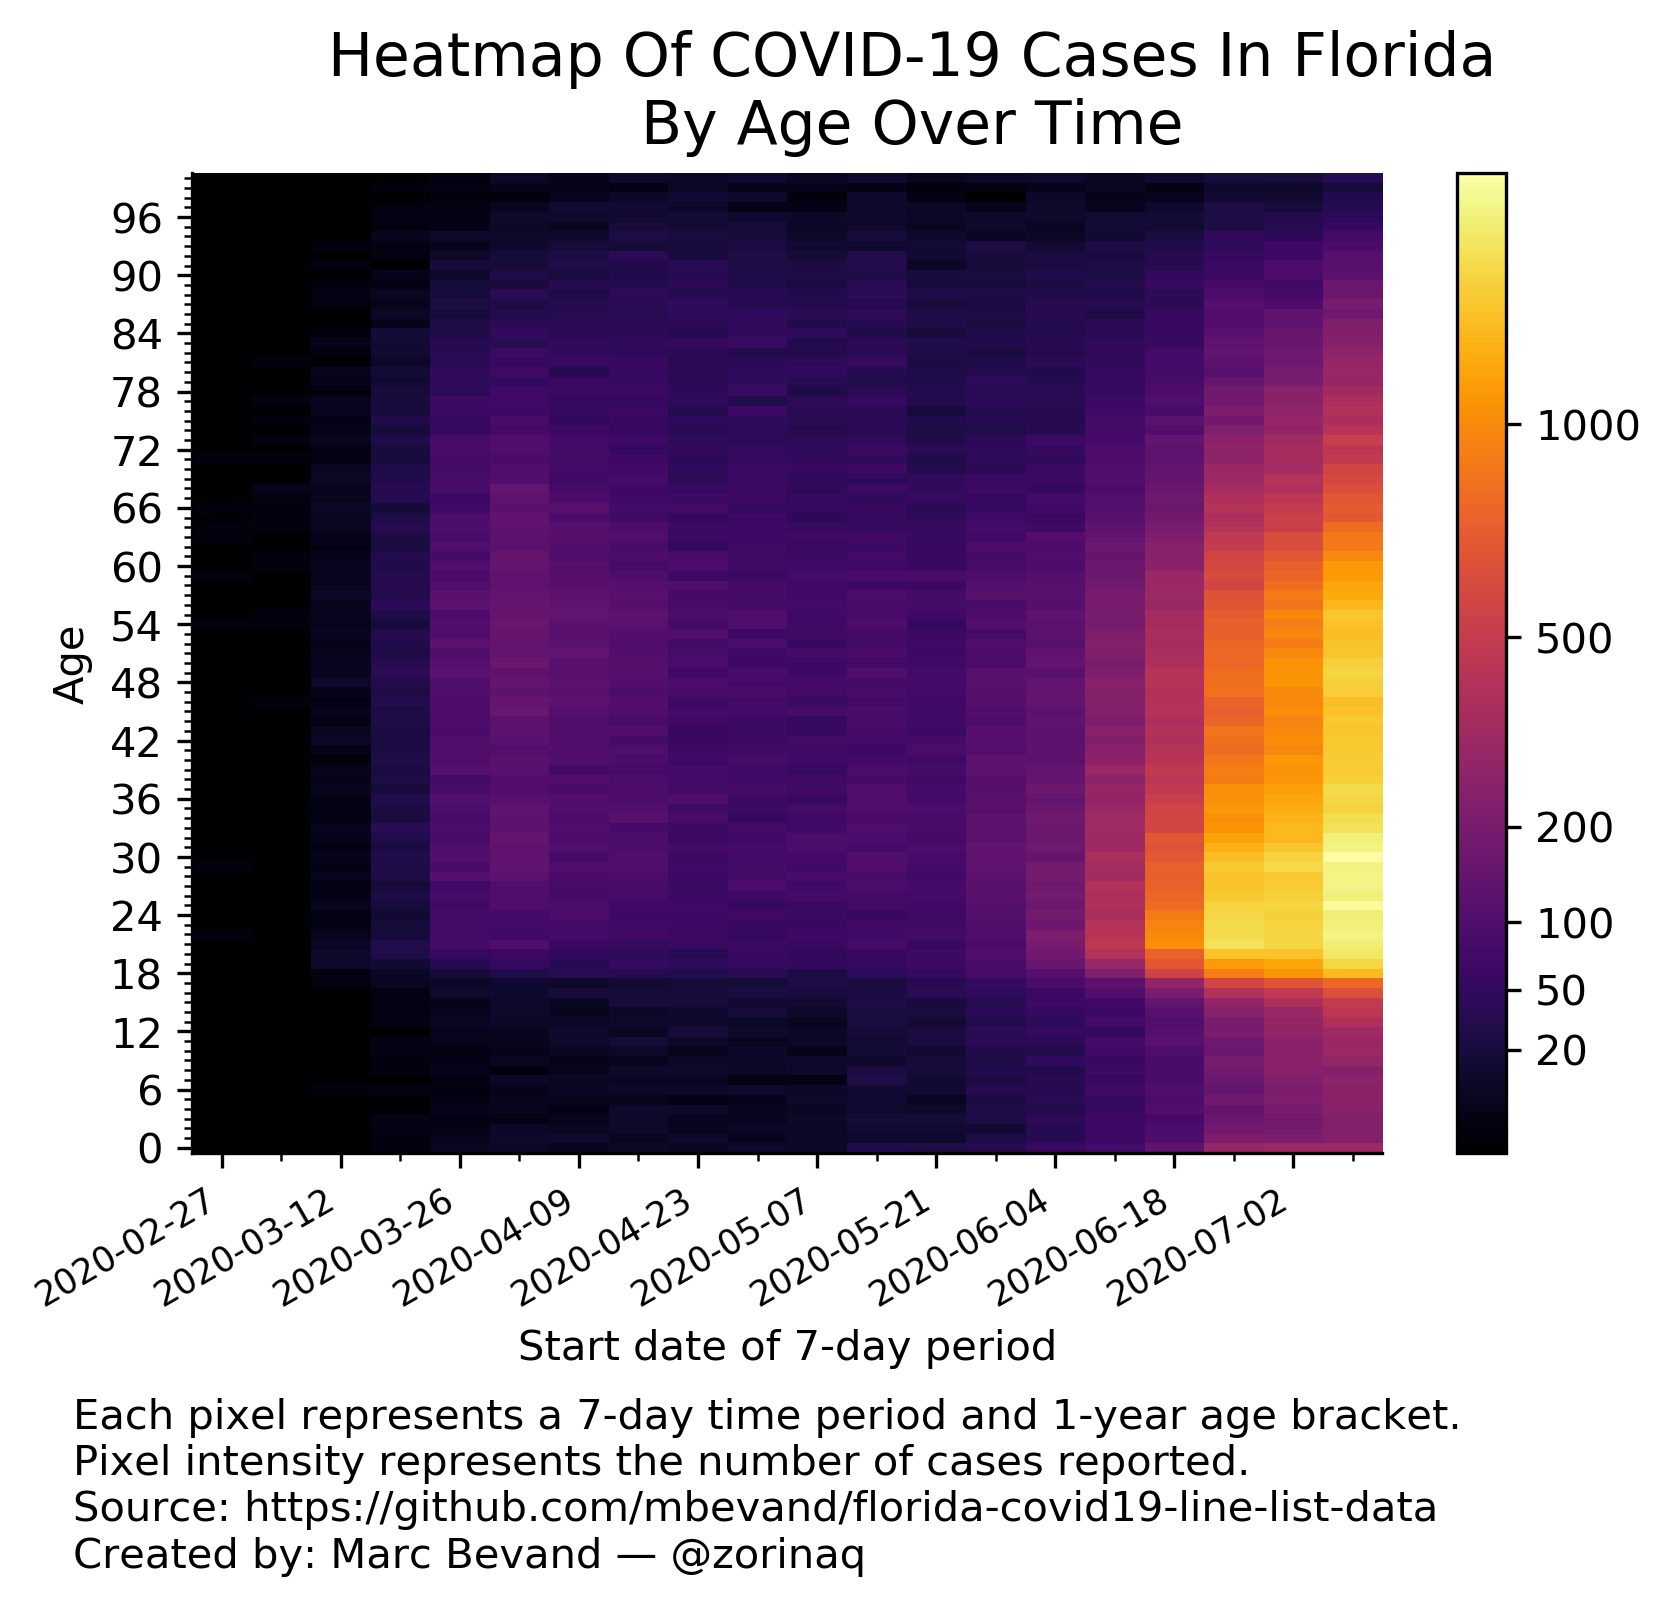
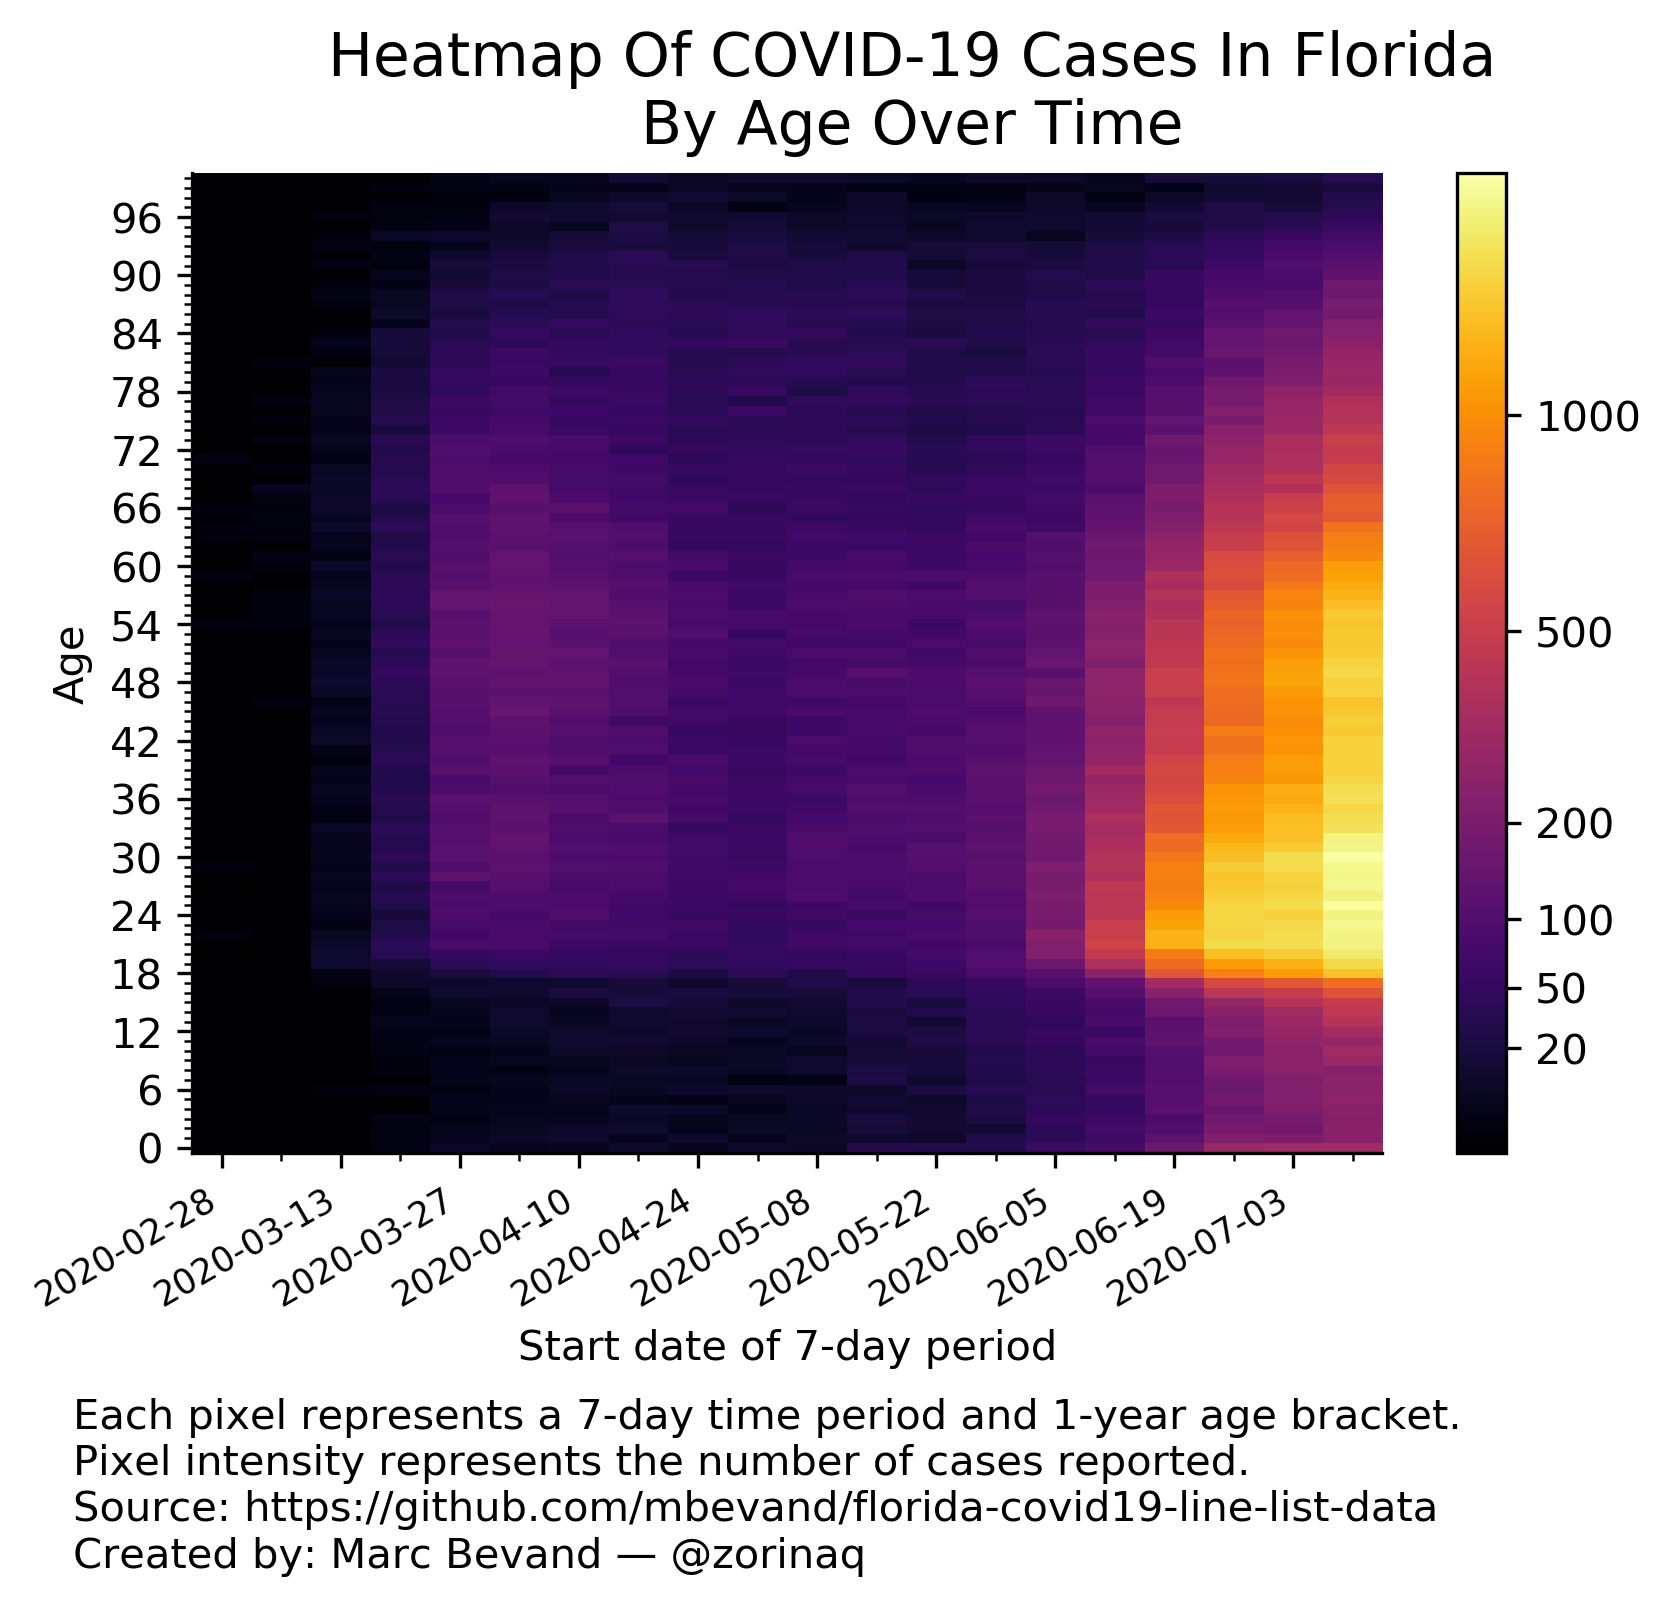
update heatmap

diff --git a/README.md b/README.md
@@ -233,30 +233,30 @@ of cases. `heatmap.py` also produces a numerical summary:
 
 ```
 $ ./heatmap.py
-Opening data_fdoh/2020-07-16-07-58-41.csv
+Opening data_fdoh/2020-07-17-09-17-34.csv
 Number of COVID-19 cases per 7-day time period in Florida by age bracket over time:
 period_start, 00-04, 05-09, 10-14, 15-19, 20-24, 25-29, 30-34, 35-39, 40-44, 45-49, 50-54, 55-59, 60-64, 65-69, 70-74, 75-79, 80-84, 85-89, 90+, median_age
-  2020-02-27,     0,     0,     0,     0,     1,     1,     0,     0,     0,     0,     1,     1,     2,     1,     1,     0,     0,     0,     0,  61.0
-  2020-03-05,     0,     0,     0,     0,     0,     0,     0,     0,     0,     1,     1,     1,     3,     8,     2,     3,     1,     0,     0,  67.5
-  2020-03-12,     0,     1,     0,    13,    27,    20,    17,    20,    22,    28,    24,    30,    23,    35,    21,    18,    11,     4,     3,  52.0
-  2020-03-19,     7,     4,    10,    34,   115,   116,   144,   123,   121,   159,   148,   169,   142,   141,   117,   106,    70,    25,    18,  51.0
-  2020-03-26,    20,    12,    23,    80,   363,   427,   474,   466,   480,   508,   540,   530,   457,   398,   382,   269,   185,   106,    67,  50.0
-  2020-04-02,    34,    25,    35,   116,   398,   556,   681,   584,   603,   723,   757,   725,   672,   637,   463,   345,   272,   162,   124,  51.0
-  2020-04-09,    31,    29,    43,   112,   356,   440,   468,   488,   514,   612,   629,   636,   552,   456,   378,   280,   229,   174,   153,  51.0
-  2020-04-16,    46,    36,    54,   142,   305,   424,   477,   464,   458,   515,   550,   572,   450,   370,   317,   295,   245,   192,   218,  51.0
-  2020-04-23,    37,    37,    58,   131,   291,   340,   353,   403,   333,   395,   432,   425,   360,   294,   224,   210,   210,   212,   214,  51.0
-  2020-04-30,    34,    33,    52,   147,   304,   376,   358,   354,   351,   406,   399,   409,   343,   306,   258,   249,   226,   196,   186,  51.0
-  2020-05-07,    41,    43,    36,   133,   299,   368,   405,   329,   327,   370,   340,   373,   316,   244,   226,   184,   199,   153,   125,  48.0
-  2020-05-14,    84,    89,    94,   168,   341,   430,   451,   469,   391,   431,   410,   419,   341,   273,   254,   206,   205,   196,   185,  47.0
-  2020-05-21,    79,    70,    96,   213,   338,   377,   431,   406,   375,   388,   328,   387,   285,   236,   156,   144,   128,   117,   102,  44.0
-  2020-05-28,   124,   142,   184,   305,   504,   611,   641,   592,   559,   568,   470,   504,   411,   304,   204,   198,   146,   116,   130,  42.0
-  2020-06-04,   209,   188,   229,   482,   947,   912,   832,   776,   643,   686,   649,   590,   462,   327,   260,   182,   173,   156,   149,  38.0
-  2020-06-11,   323,   307,   347,   839,  2124,  1905,  1708,  1475,  1217,  1177,  1085,   953,   746,   527,   438,   322,   235,   170,   166,  36.0
-  2020-06-18,   513,   453,   557,  1887,  4649,  3868,  3197,  2500,  2047,  2093,  1878,  1612,  1181,   829,   653,   486,   345,   243,   234,  34.0
-  2020-06-25,   995,   871,   991,  3280,  7337,  6855,  5751,  4965,  4202,  4019,  3868,  3268,  2542,  1887,  1342,   904,   643,   495,   397,  36.0
-  2020-07-02,  1114,  1169,  1412,  3768,  7110,  7109,  6584,  5609,  5012,  5107,  4847,  4366,  3217,  2305,  1714,  1297,   858,   514,   494,  38.0
-  2020-07-09,  1277,  1319,  1823,  4700,  8157,  8462,  8183,  7196,  6855,  6920,  6731,  6081,  4678,  3338,  2467,  1821,  1341,   931,   736,  40.0
-(Last period's data may be incomplete. Age unknown for 614 out of 315775 cases.)
+  2020-02-28,     0,     0,     0,     0,     1,     1,     0,     0,     0,     0,     1,     1,     2,     1,     2,     0,     0,     0,     0,  63.0
+  2020-03-06,     0,     0,     0,     0,     0,     0,     0,     0,     0,     1,     1,     3,     5,    10,     2,     3,     1,     0,     0,  66.5
+  2020-03-13,     0,     1,     0,    15,    33,    27,    25,    23,    26,    38,    31,    32,    33,    41,    24,    26,    11,     5,     6,  51.0
+  2020-03-20,     9,     4,    17,    42,   149,   159,   181,   161,   165,   200,   193,   203,   166,   169,   152,   129,    88,    31,    24,  50.0
+  2020-03-27,    24,    18,    18,    87,   381,   474,   552,   515,   528,   590,   614,   620,   519,   467,   434,   287,   201,   123,    73,  50.0
+  2020-04-03,    32,    22,    41,   108,   388,   533,   644,   578,   610,   680,   736,   701,   648,   605,   431,   345,   279,   163,   130,  51.0
+  2020-04-10,    37,    34,    44,   132,   365,   451,   468,   490,   525,   644,   618,   664,   559,   463,   379,   281,   230,   179,   167,  51.0
+  2020-04-17,    45,    35,    59,   148,   321,   417,   483,   473,   426,   498,   566,   548,   484,   359,   301,   288,   252,   212,   237,  51.0
+  2020-04-24,    35,    36,    55,   119,   285,   338,   342,   388,   331,   371,   409,   407,   328,   294,   231,   207,   186,   183,   179,  50.0
+  2020-05-01,    33,    34,    44,   135,   257,   328,   303,   306,   288,   343,   334,   341,   285,   261,   231,   230,   219,   191,   184,  51.0
+  2020-05-08,    42,    47,    46,   142,   318,   414,   447,   357,   374,   409,   383,   406,   339,   270,   246,   191,   212,   167,   148,  48.0
+  2020-05-15,    93,    90,    95,   182,   339,   414,   442,   471,   379,   439,   399,   436,   350,   260,   238,   199,   192,   189,   164,  47.0
+  2020-05-22,    80,    79,   111,   222,   391,   439,   502,   448,   446,   442,   362,   413,   300,   244,   158,   158,   140,   117,   102,  43.0
+  2020-05-29,   121,   147,   183,   340,   488,   566,   598,   591,   528,   532,   458,   481,   398,   300,   207,   191,   137,   114,   133,  42.0
+  2020-06-05,   234,   202,   248,   493,  1080,  1027,   916,   843,   676,   722,   662,   597,   485,   342,   280,   188,   177,   153,   148,  38.0
+  2020-06-12,   337,   313,   376,   959,  2477,  2130,  1889,  1605,  1315,  1301,  1202,  1069,   805,   568,   460,   342,   252,   191,   172,  36.0
+  2020-06-19,   601,   531,   644,  2230,  5515,  4641,  3816,  3003,  2513,  2470,  2249,  1910,  1391,  1013,   763,   566,   396,   273,   277,  34.0
+  2020-06-26,  1030,   928,  1034,  3301,  6973,  6795,  5814,  5002,  4259,  4112,  3960,  3376,  2648,  1932,  1411,   968,   686,   502,   409,  36.0
+  2020-07-03,  1119,  1171,  1454,  3857,  7144,  7143,  6684,  5688,  5146,  5352,  5097,  4580,  3366,  2465,  1817,  1380,   910,   589,   545,  38.0
+  2020-07-10,  1306,  1327,  1826,  4702,  8145,  8376,  8044,  7241,  6910,  6882,  6776,  6102,  4724,  3351,  2514,  1839,  1372,   929,   734,  40.0
+(Last period's data may be incomplete. Age unknown for 634 out of 327241 cases.)
 ```
 
 By default the size of each pixel, or *bucket*, is 5-year age brackets and 7-day
